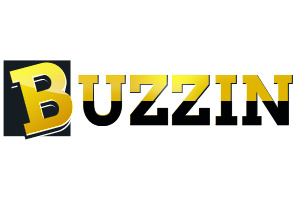
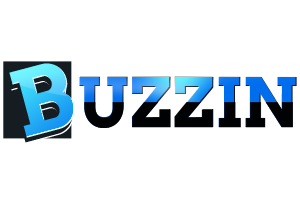
Change

Changed region(s): [[0.0, 0.2985, 0.99, 0.7164]]

diff --git a/assets/css/style2.css b/assets/css/style2.css
@@ -45,7 +45,7 @@ h2, h3, h4 {
 }
 .containerheader.shrink .navbar.navbar-default.home{
   box-shadow: 10px 0px 1px !important;
-  background:linear-gradient(260deg,#ffeb3b,#ffc837);
+  background: linear-gradient(260deg,#4fc3f7,#03a9f4);
   width: 100%;
   display: block;
   padding: 0px 0px;
@@ -174,7 +174,7 @@ h2, h3, h4 {
 }
 #sliderhead .scrolldwn a  {
   font-size:11px;
-  color: #000;
+  color: #00afff;
 }
 #sliderhead .booknw2 a:hover  {
   text-decoration:none !important;
@@ -221,18 +221,19 @@ h2, h3, h4 {
 }
 
 .btnenqr a {
-  border:solid 2px #989898;
+  border: solid 2px #29b6f6;
   padding:14px 35px 14px 35px;
   display:inline-block;
   border-radius:10px;
   font-size:17px;
-  color:#a4a4a4;
+  color: #29b6f6;
   font-weight:bold;
 }
 .btnenqr a:hover {
   text-decoration:none;
-  color: #ffe93b;
-  border: solid #ffe93b 2px;
+  color: #ffffff;
+  border: solid #29b6f6 2px;
+  background: rgb(58, 181, 236);
 } 
 
 
@@ -530,7 +531,7 @@ h2, h3, h4 {
   border-radius:50%;
 }
 #copyright .col-md-12 {
-  border-top: solid 1px rgba(255, 196, 0, 0.25);
+  border-top: solid 1px rgba(41, 182, 246, 0.37);
   margin-top:50px;
   padding:30px 0px 10px;
 }
@@ -1118,7 +1119,7 @@ h2, h3, h4 {
   padding:4px;
 }
 #more-blog .more-img a {
-  border: solid 1px #FFC400;
+  border: solid 1px #29b6f6;
   border-radius:50%;
 }
 #blogsec .sub {
@@ -1252,7 +1253,7 @@ h2, h3, h4 {
     color:#fff;
 }
 .news-item .read-more a:hover{
-    background-color: #ffe23a !important;
+    background-color: #29b6f6 !important;
     color:#333 !important;
     text-decoration:none;
 }
@@ -1455,7 +1456,7 @@ body #list-blog .container{
   position:absolute;
   top:0;
   right:0;
-  background: rgb(255, 201, 55);
+  background: #29b6f6;
   margin:0;
   font-size:16px;
   padding:10px 20px;
@@ -1470,7 +1471,7 @@ body #list-blog .container{
 } 
 #list-allblog .short-desc .read-more a{
   padding:10px 35px;
-  background: #ffc937;
+  background: #29b6f6;
   color:#fff;
   border-radius:30px;
 }
@@ -1564,7 +1565,7 @@ body #list-blog .container{
   padding:0px 0px 10px 15px;
 }
 #list-allblog .right-list .more-ttle-head {
-  background: #ffc937 !important;
+  background: #29b6f6 !important;
   padding:5px 0px;
 }
 #list-allblog .right-list .more-ttle-head .ttle-post{
@@ -1616,7 +1617,7 @@ body #list-blog .container{
   font-weight:bold;
 }
 .bloglayout .social-header-topright li a:hover{
-  background: #FFAB00;
+  background: #0088c5;
   color: #FFF;
 }
 

diff --git a/assets/css/style3.css b/assets/css/style3.css
@@ -4,7 +4,7 @@
 
 .containerheader.shrink .social-header-topright li a{
 	color:#fff;
-	border: #FFC400 solid 2px;
+	border: #ffffff solid 2px;
 }	
 .containerheader.shrink  .btnrigt {
 	padding:12px 0px 0px;
@@ -91,13 +91,13 @@
 	margin-top:40px;
 }
 #services2 .col-md-3:hover img{
-	border:solid #fff 1px;
+	border: solid #a1dcf7 1px;
 }
 #services2 .col-md-3 img{
-	border: solid 1px #3a3a3a;
+	border: solid 1px #ffffff;
 	padding:30px 25px;
 	border-radius:50%;
-	background: #ffc837;
+	background: #29b6f6;
 }
 #services2 .col-md-3 .detservc h4{
 	font-size:16px; !important
@@ -270,7 +270,7 @@
 }
 #coursesoffer .enqr a:hover{
 	background: rgba(255, 255, 255, 0.2);
-	color: #fff;
+	color: #29b6f6;
 	text-decoration:none;
 }
 #recrtrs-bg .detcours2 h4{
@@ -289,8 +289,8 @@
 #recrtrs-bg  .enqr a{
 	padding:10px 40px;
 	border-radius:30px;
-	color: #ffeb3b;
-	border: solid 1px #ffeb3b;
+	color: #29b6f6;
+	border: solid 1px #29b6f6;
 }
 #recrtrs-bg .det {
 	padding:10px 240px;
@@ -303,7 +303,7 @@
 .bloglayout .social-header-topright li a {
     list-style: none;
     display: inline-block;
-    border: solid 2px #FFC400;
+    border: solid 2px #29b6f6;
     border-radius: 50%;
     color: #fff;
     font-size: 22px;
@@ -378,7 +378,7 @@
     height: 400px;
 }
 .closestat {
-	color: #ffeb3b !important;
+	color: #29b6f6 !important;
 	margin-left:40px !important;
 	text-transform:uppercase !important;
 }

diff --git a/assets/css/sidenav.min.css b/assets/css/sidenav.min.css
@@ -54,24 +54,24 @@
 }
 .social-sidebar-topright li:nth-child(3) a{
     padding:12px 14px;
-    background:#dd4b39;
+    background: #dd4b39;
 }
-.credentials_nav a{     
+.credentials_nav a{
     border-radius:50%;
-    color:#fff;    
+    color: #fff;
     margin-left:6px;
 }
-.credentials_nav a:hover{ 
+.credentials_nav a:hover{
     padding:12px 20px;
     border-radius:50%;
-    color:#222;
+    color: #29b6f6;
     background:#fff;
 }
 .resrv {
     padding:35px 10px 0px;
     font-size: 14px;
     font-weight: bold;
-    color: #FF9800 !important;
+    color: #29b6f6 !important;
 }
 .logonav {
     padding: 20px 55px 0px;
@@ -109,7 +109,7 @@
     line-height:1em;
 }
 .sidenav-menu li a:hover{
-    color: #FF9800  !important;
+    color: #29b6f6  !important;
     text-decoration:none;
 }
 .sidenav-no-scroll #sliderhead {

diff --git a/assets/css/hover.css b/assets/css/hover.css
@@ -2009,7 +2009,7 @@
 .more-blog-btn.hvr-ripple-out:before {
   content: '';
   position: absolute;
-  border: #FFC400 solid .5px;
+  border: #29b6f6 solid .5px;
   border-radius:60px;
   top: 0;
   right: 0;

diff --git a/assets/css/webriq-bootstrap-material-ui.min.css b/assets/css/webriq-bootstrap-material-ui.min.css
@@ -8465,7 +8465,7 @@ a {
 }
 a:focus,
 a:hover {
-    color: #FFC400;
+    color: #29b6f6;
     text-decoration: underline;
 }
 a:focus {
